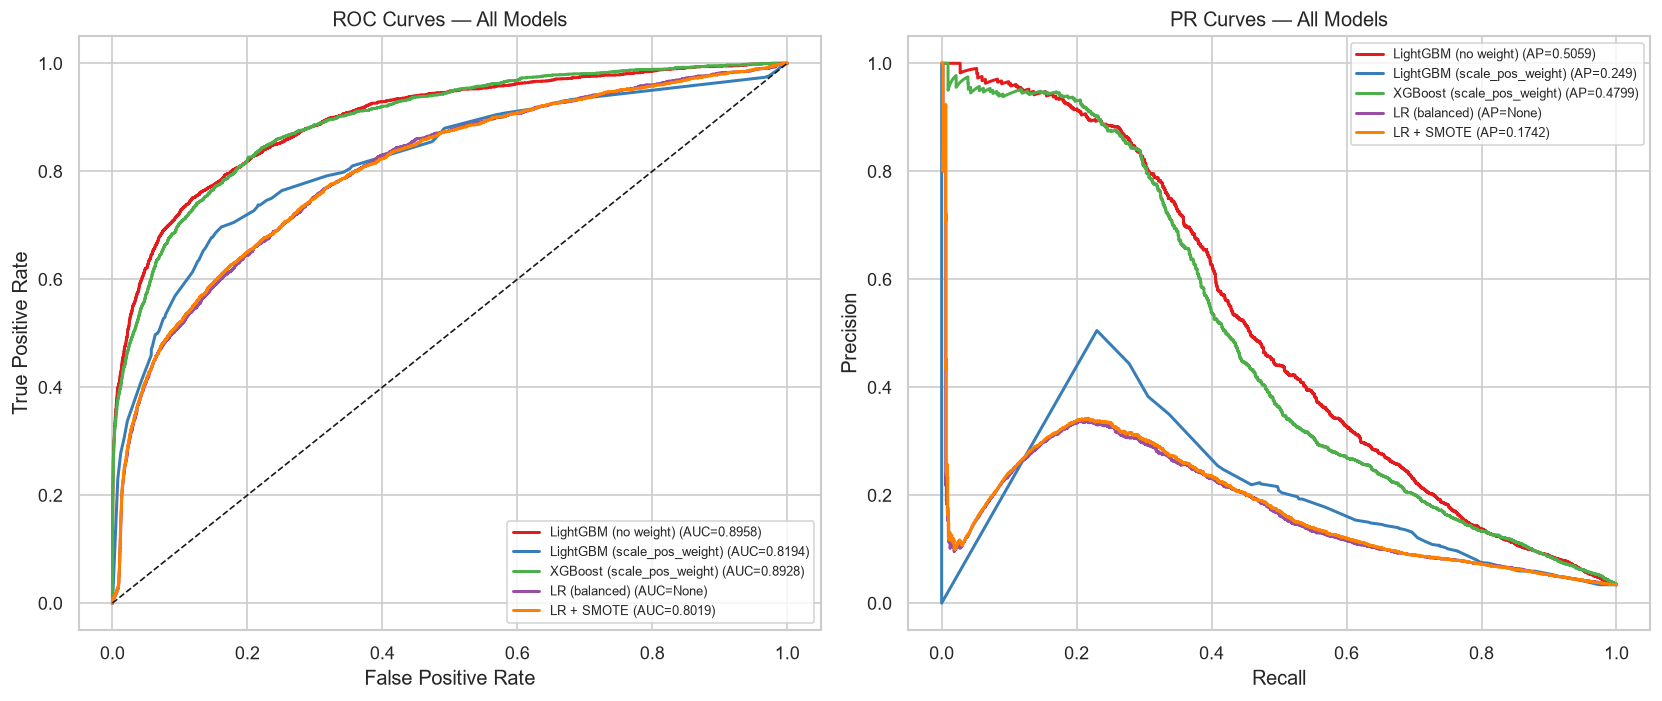
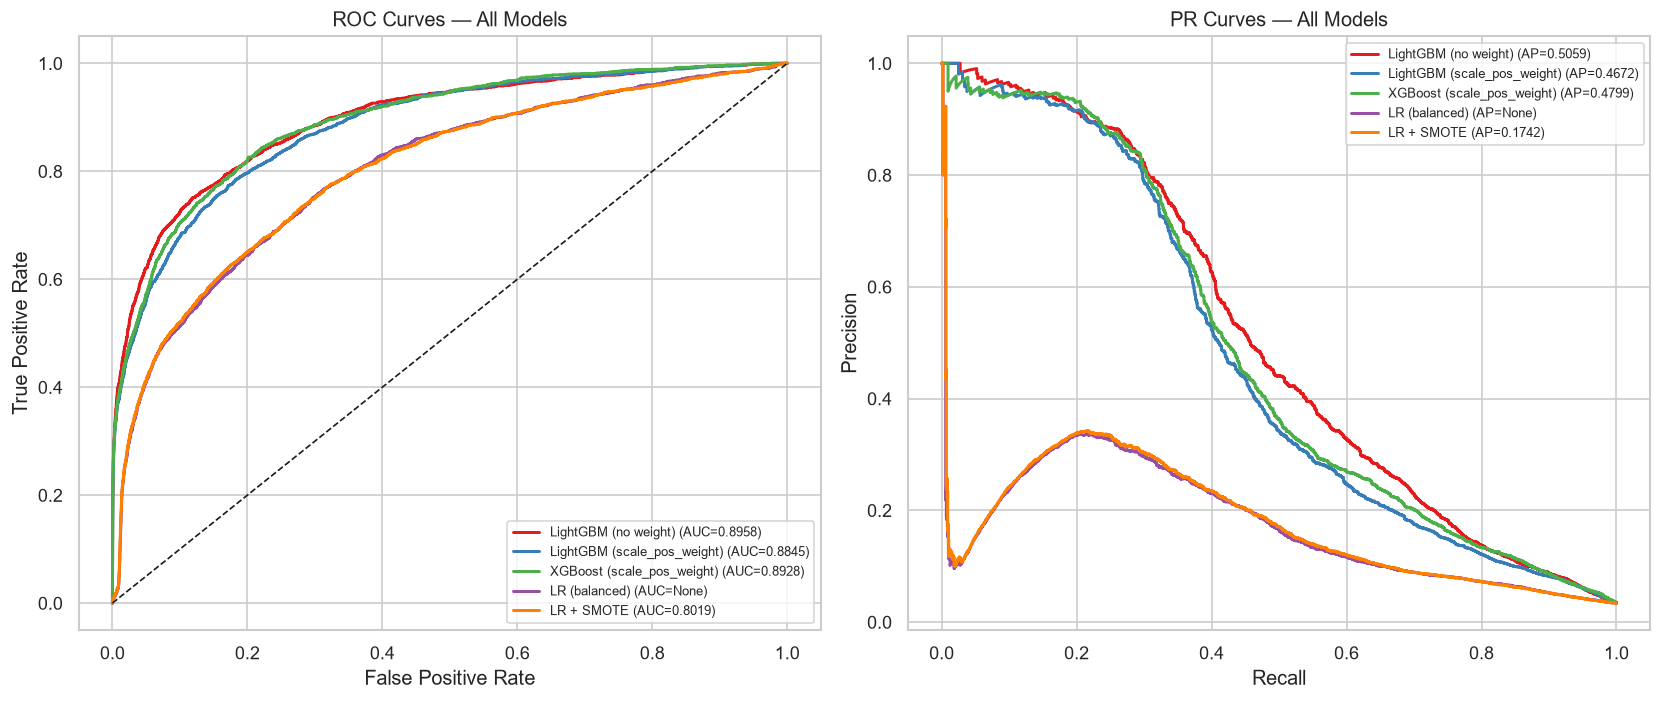
fix(train.py): early-stop LightGBM on AUC only (first_metric_only=True)
With first_metric_only=False (the default), early stopping fires as soon as
ANY metric stops improving. scale_pos_weight makes validation logloss worse
from round 1, so the weighted model stopped at iteration 1.

Fix: put "auc" first in the metric list and pass first_metric_only=True to
lgb.early_stopping for both LightGBM runs. Weighted model now trains to
iteration 151 (ROC-AUC 0.8845, up from 0.8194). Best model unchanged
(LightGBM no weight, 0.8958). metrics.json and ROC/PR figure updated.

diff --git a/src/train.py b/src/train.py
@@ -163,7 +163,7 @@ def train_all(
 
     params_lgb_base = {
         "objective":      "binary",
-        "metric":         ["binary_logloss", "auc"],
+        "metric":         ["auc", "binary_logloss"],   # auc drives early stopping
         "learning_rate":  0.05,
         "num_leaves":     63,
         "min_child_samples": 50,
@@ -180,7 +180,7 @@ def train_all(
         lgb_ds_train,
         num_boost_round=500,
         valid_sets=[lgb_ds_val],
-        callbacks=[lgb.early_stopping(50, verbose=False), lgb.log_evaluation(-1)],
+        callbacks=[lgb.early_stopping(50, first_metric_only=True, verbose=False), lgb.log_evaluation(-1)],
     )
     prob_val_lgb = cb_lgb_base.predict(X_val)
     thr_lgb      = best_f1_threshold(y_val.values, prob_val_lgb)
@@ -218,7 +218,7 @@ def train_all(
         lgb_ds_train2,
         num_boost_round=500,
         valid_sets=[lgb_ds_val2],
-        callbacks=[lgb.early_stopping(50, verbose=False), lgb.log_evaluation(-1)],
+        callbacks=[lgb.early_stopping(50, first_metric_only=True, verbose=False), lgb.log_evaluation(-1)],
     )
     prob_val_lgb_w  = cb_lgb_w.predict(X_val)
     thr_lgb_w       = best_f1_threshold(y_val.values, prob_val_lgb_w)
